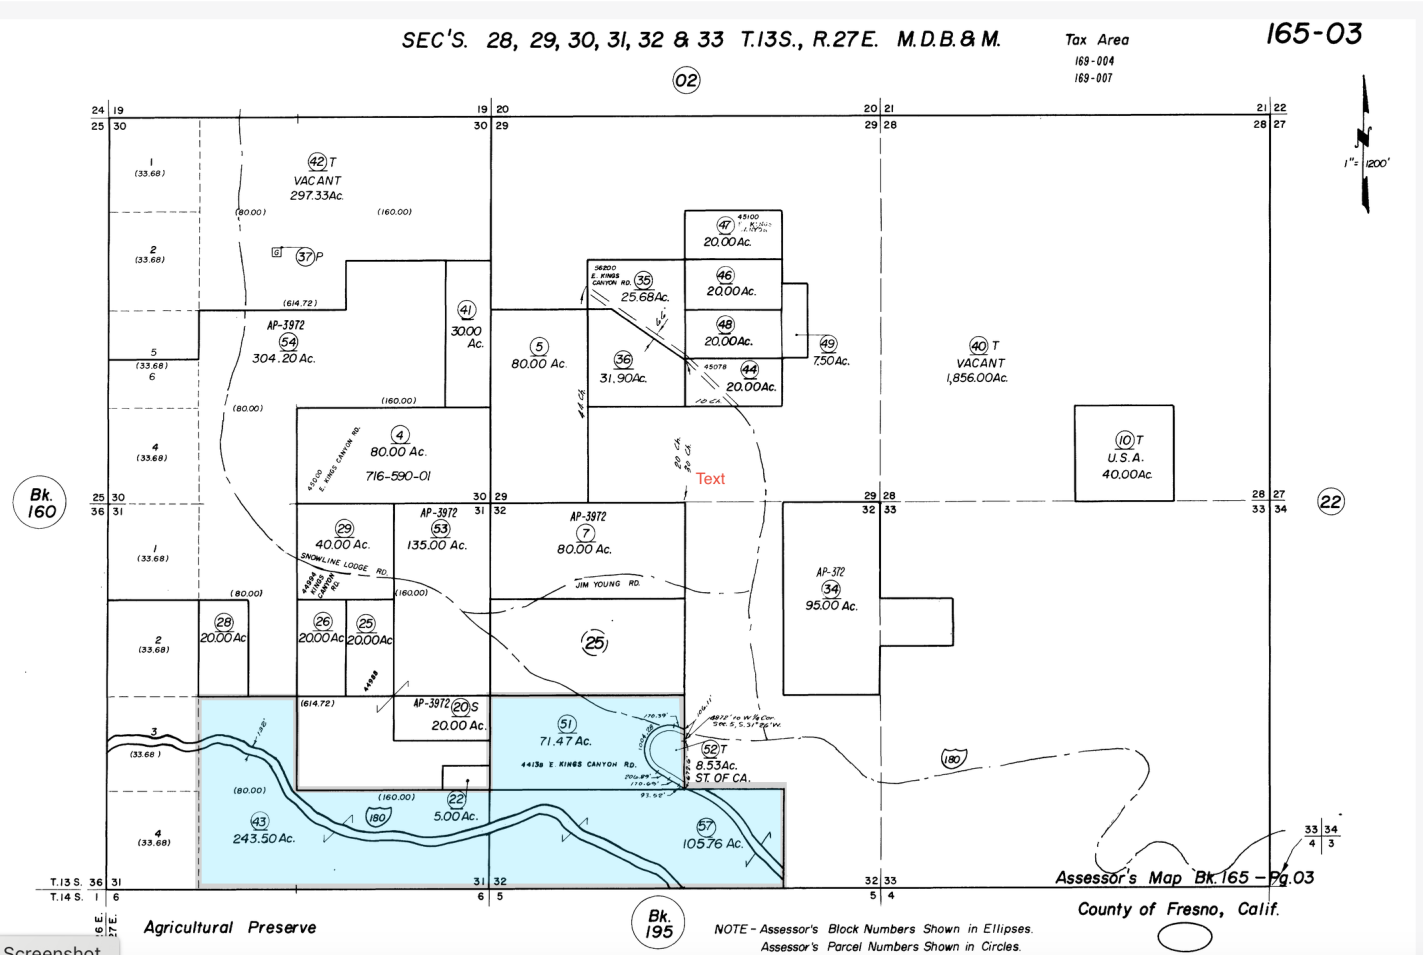
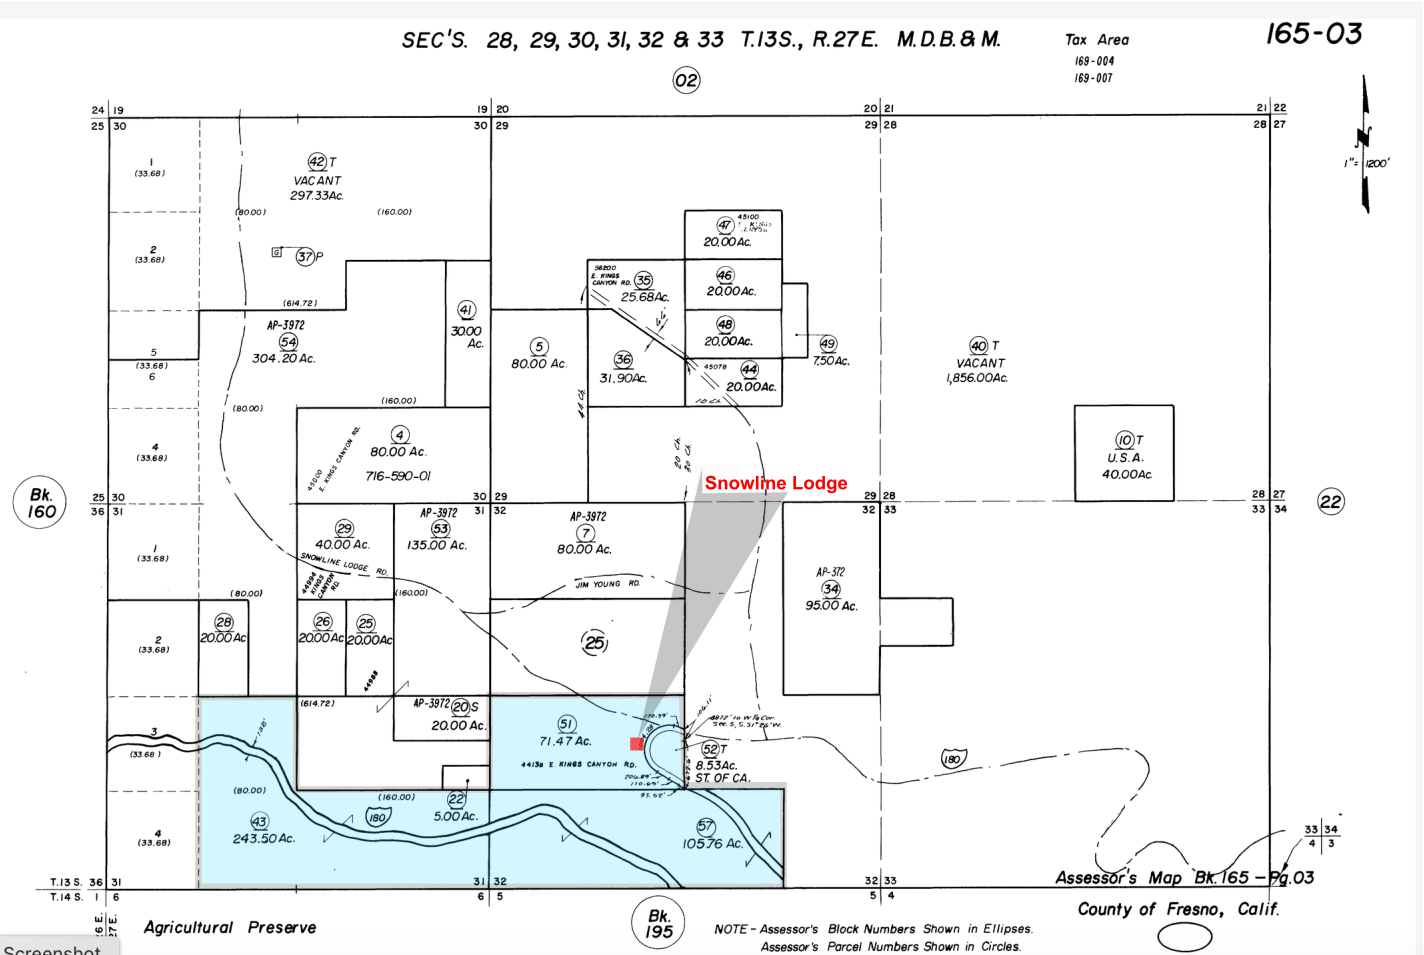
Replace parcel map with updated cleaned Site version.

Changed region(s): [[0.4326, 0.4859, 0.5871, 0.7895]]

diff --git a/index.html b/index.html
@@ -570,7 +570,7 @@
           <div class="feature-body">
             <figure class="parcel-map">
               <img
-                src="assets/images/parcel-map-cleaned.png"
+                src="assets/images/parcel-map-cleaned.png?v=20261011"
                 alt="Parcel map of 44138 E. Kings Canyon Road showing the three tax lots, Snowline Lodge, campground and RV areas, estate lots, and surrounding national forest and park lands"
                 loading="lazy"
                 decoding="async"
